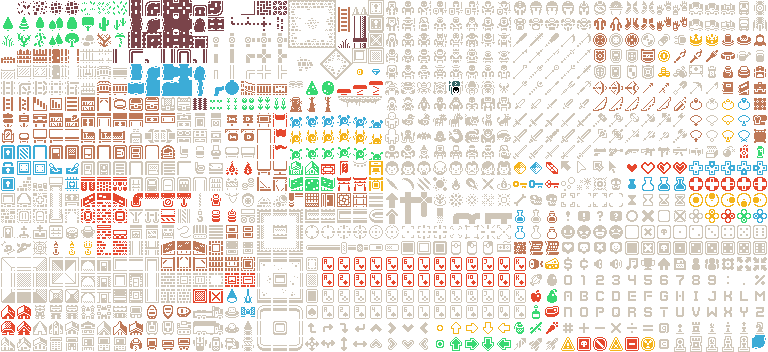
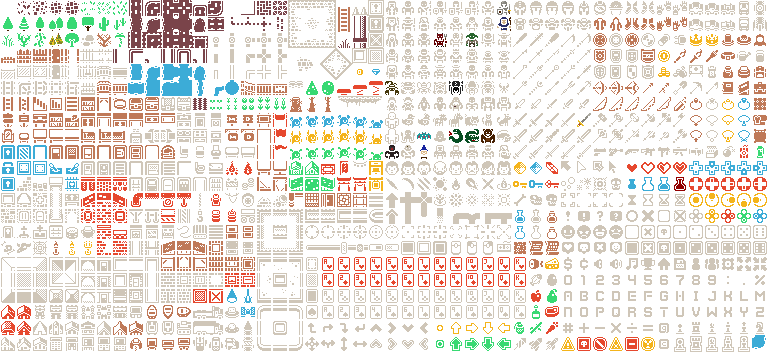
fixed some more pickable stuff, new color for sprites

diff --git a/Assets/Source/Actors/Static/Shield1.cs b/Assets/Source/Actors/Static/Shield1.cs
@@ -1,4 +1,5 @@
-using DungeonCrawl.Actors.Characters;
+using Assets.Source.Core;
+using DungeonCrawl.Actors.Characters;
 using UnityEngine;
 
 namespace DungeonCrawl.Actors.Static
@@ -20,7 +21,12 @@ namespace DungeonCrawl.Actors.Static
         }
         public override bool OnCollision(Actor anotherActor)
         {
-            if (anotherActor is Player)
+            if (anotherActor.DefaultName == "Player")
+            {
+                UserInterface.Singleton.SetText("Press E to pick up", UserInterface.TextPosition.BottomRight);
+                anotherActor.ItemUnder = this;
+            }
+            else if (anotherActor is Player)
                 _itemPickUp.Play();
             return true;
         }

diff --git a/Assets/Source/Actors/Static/Shield2.cs b/Assets/Source/Actors/Static/Shield2.cs
@@ -1,4 +1,5 @@
-using DungeonCrawl.Actors.Characters;
+using Assets.Source.Core;
+using DungeonCrawl.Actors.Characters;
 using UnityEngine;
 
 namespace DungeonCrawl.Actors.Static
@@ -20,7 +21,12 @@ namespace DungeonCrawl.Actors.Static
         }
         public override bool OnCollision(Actor anotherActor)
         {
-            if (anotherActor is Player)
+            if (anotherActor.DefaultName == "Player")
+            {
+                UserInterface.Singleton.SetText("Press E to pick up", UserInterface.TextPosition.BottomRight);
+                anotherActor.ItemUnder = this;
+            }
+            else if (anotherActor is Player)
                 _itemPickUp.Play();
             return true;
         }

diff --git a/Assets/Source/Actors/Static/Amulet.cs b/Assets/Source/Actors/Static/Amulet.cs
@@ -1,4 +1,5 @@
-using DungeonCrawl.Actors.Characters;
+using Assets.Source.Core;
+using DungeonCrawl.Actors.Characters;
 using UnityEngine;
 using UnityEngine.EventSystems;
 
@@ -21,7 +22,12 @@ namespace DungeonCrawl.Actors.Static
         }
         public override bool OnCollision(Actor anotherActor)
         {
-            if (anotherActor is Player)
+            if (anotherActor.DefaultName == "Player")
+            {
+                UserInterface.Singleton.SetText("Press E to pick up", UserInterface.TextPosition.BottomRight);
+                anotherActor.ItemUnder = this;
+            }
+            else if (anotherActor is Player)
                 _itemPickUp.Play();
             return true;
         }
